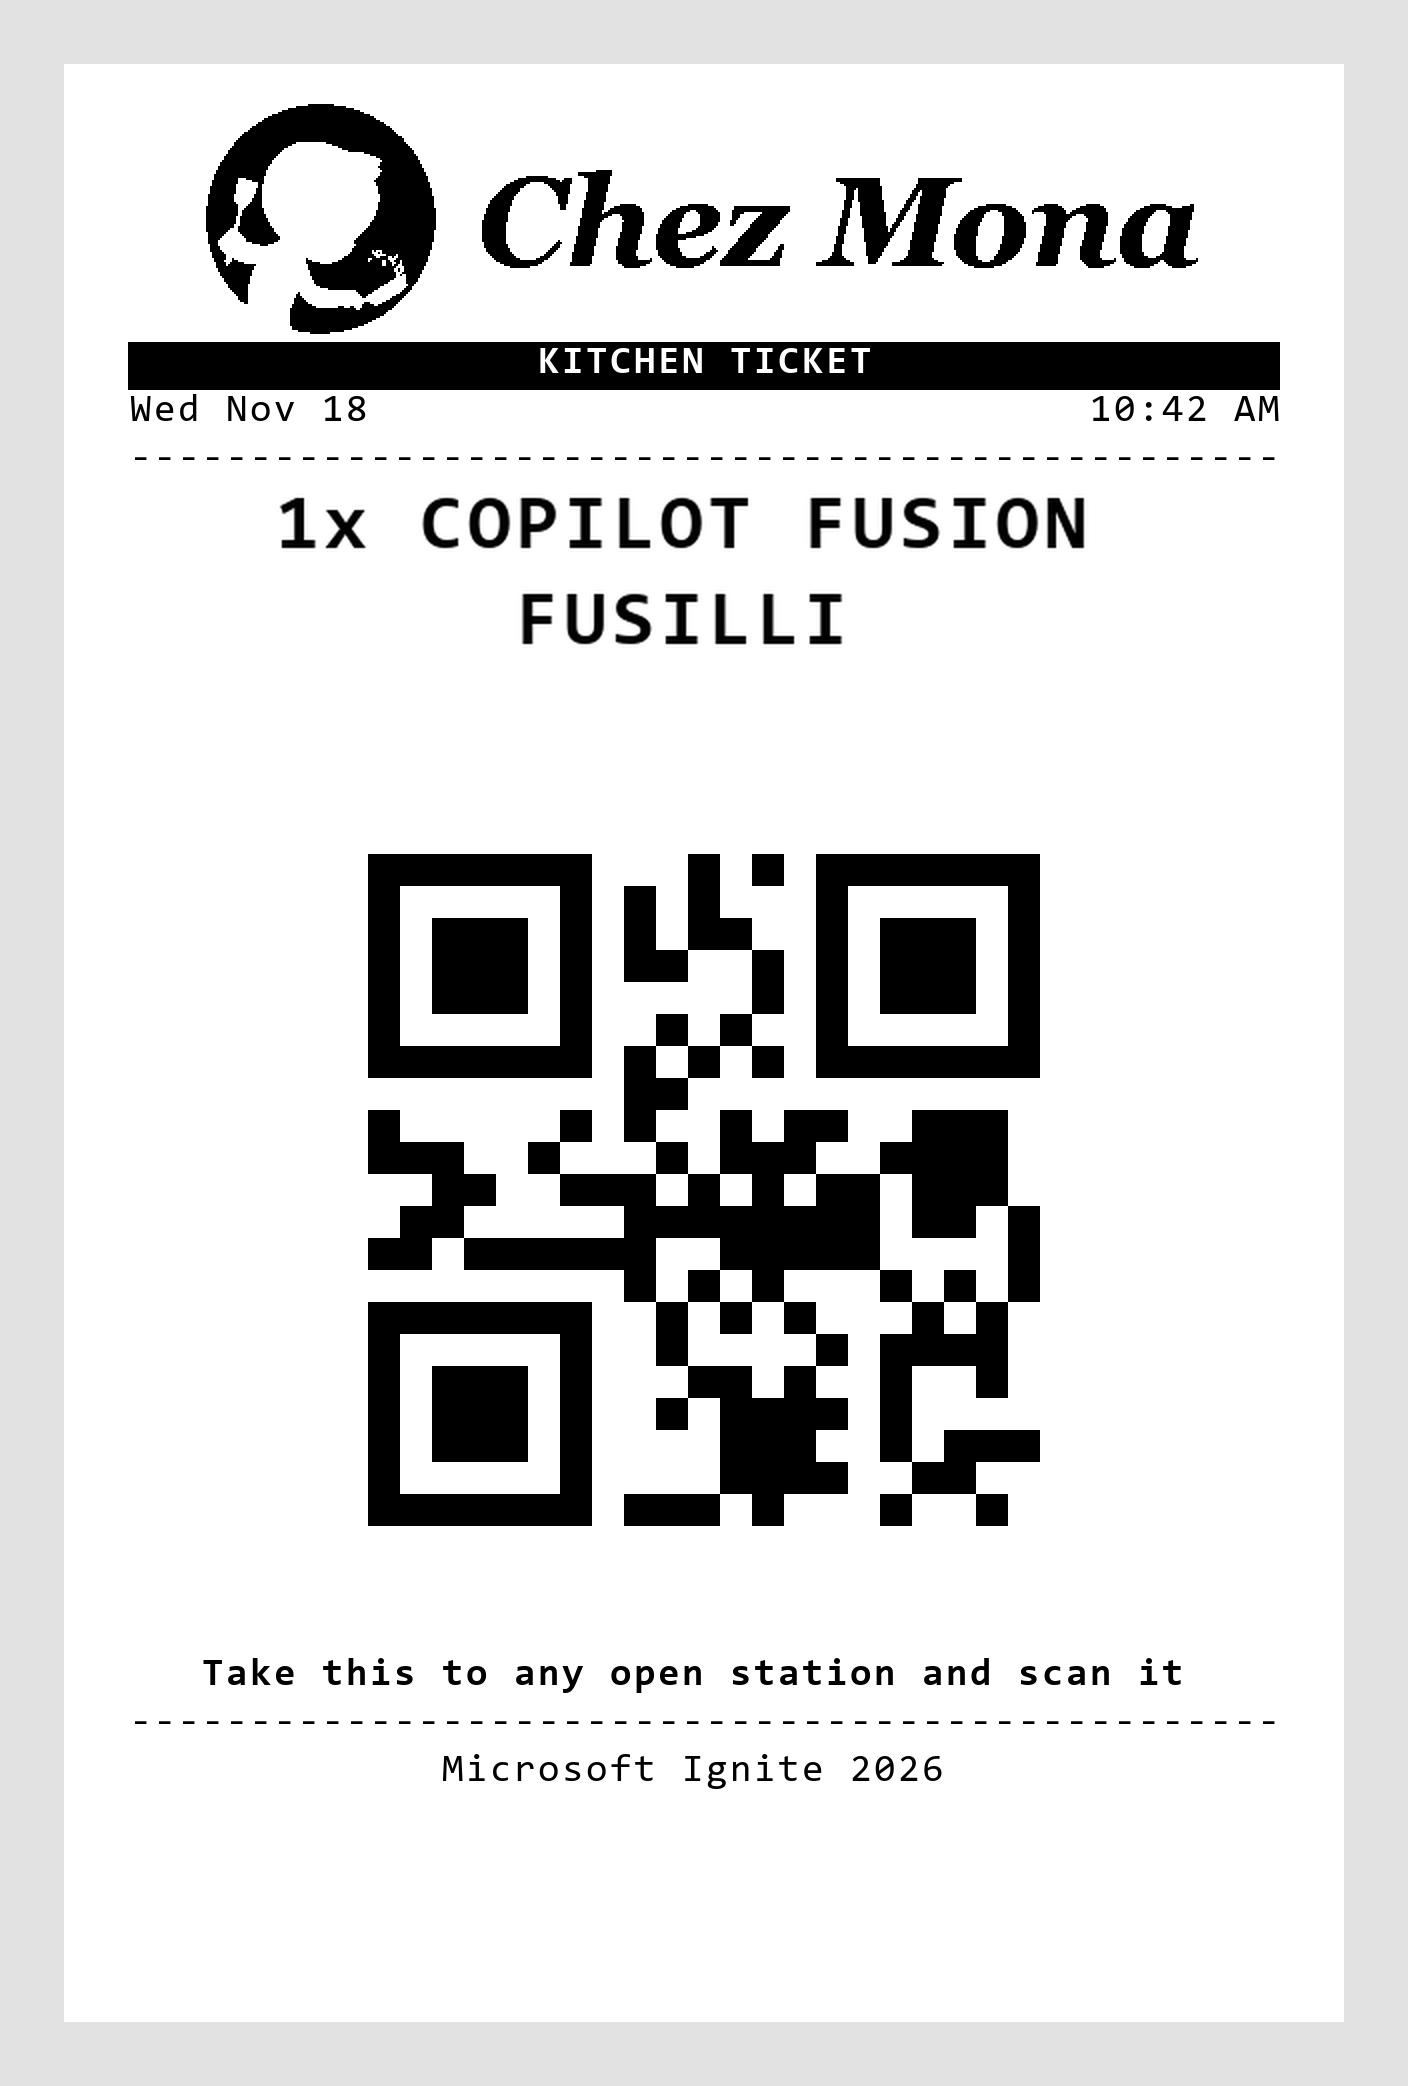
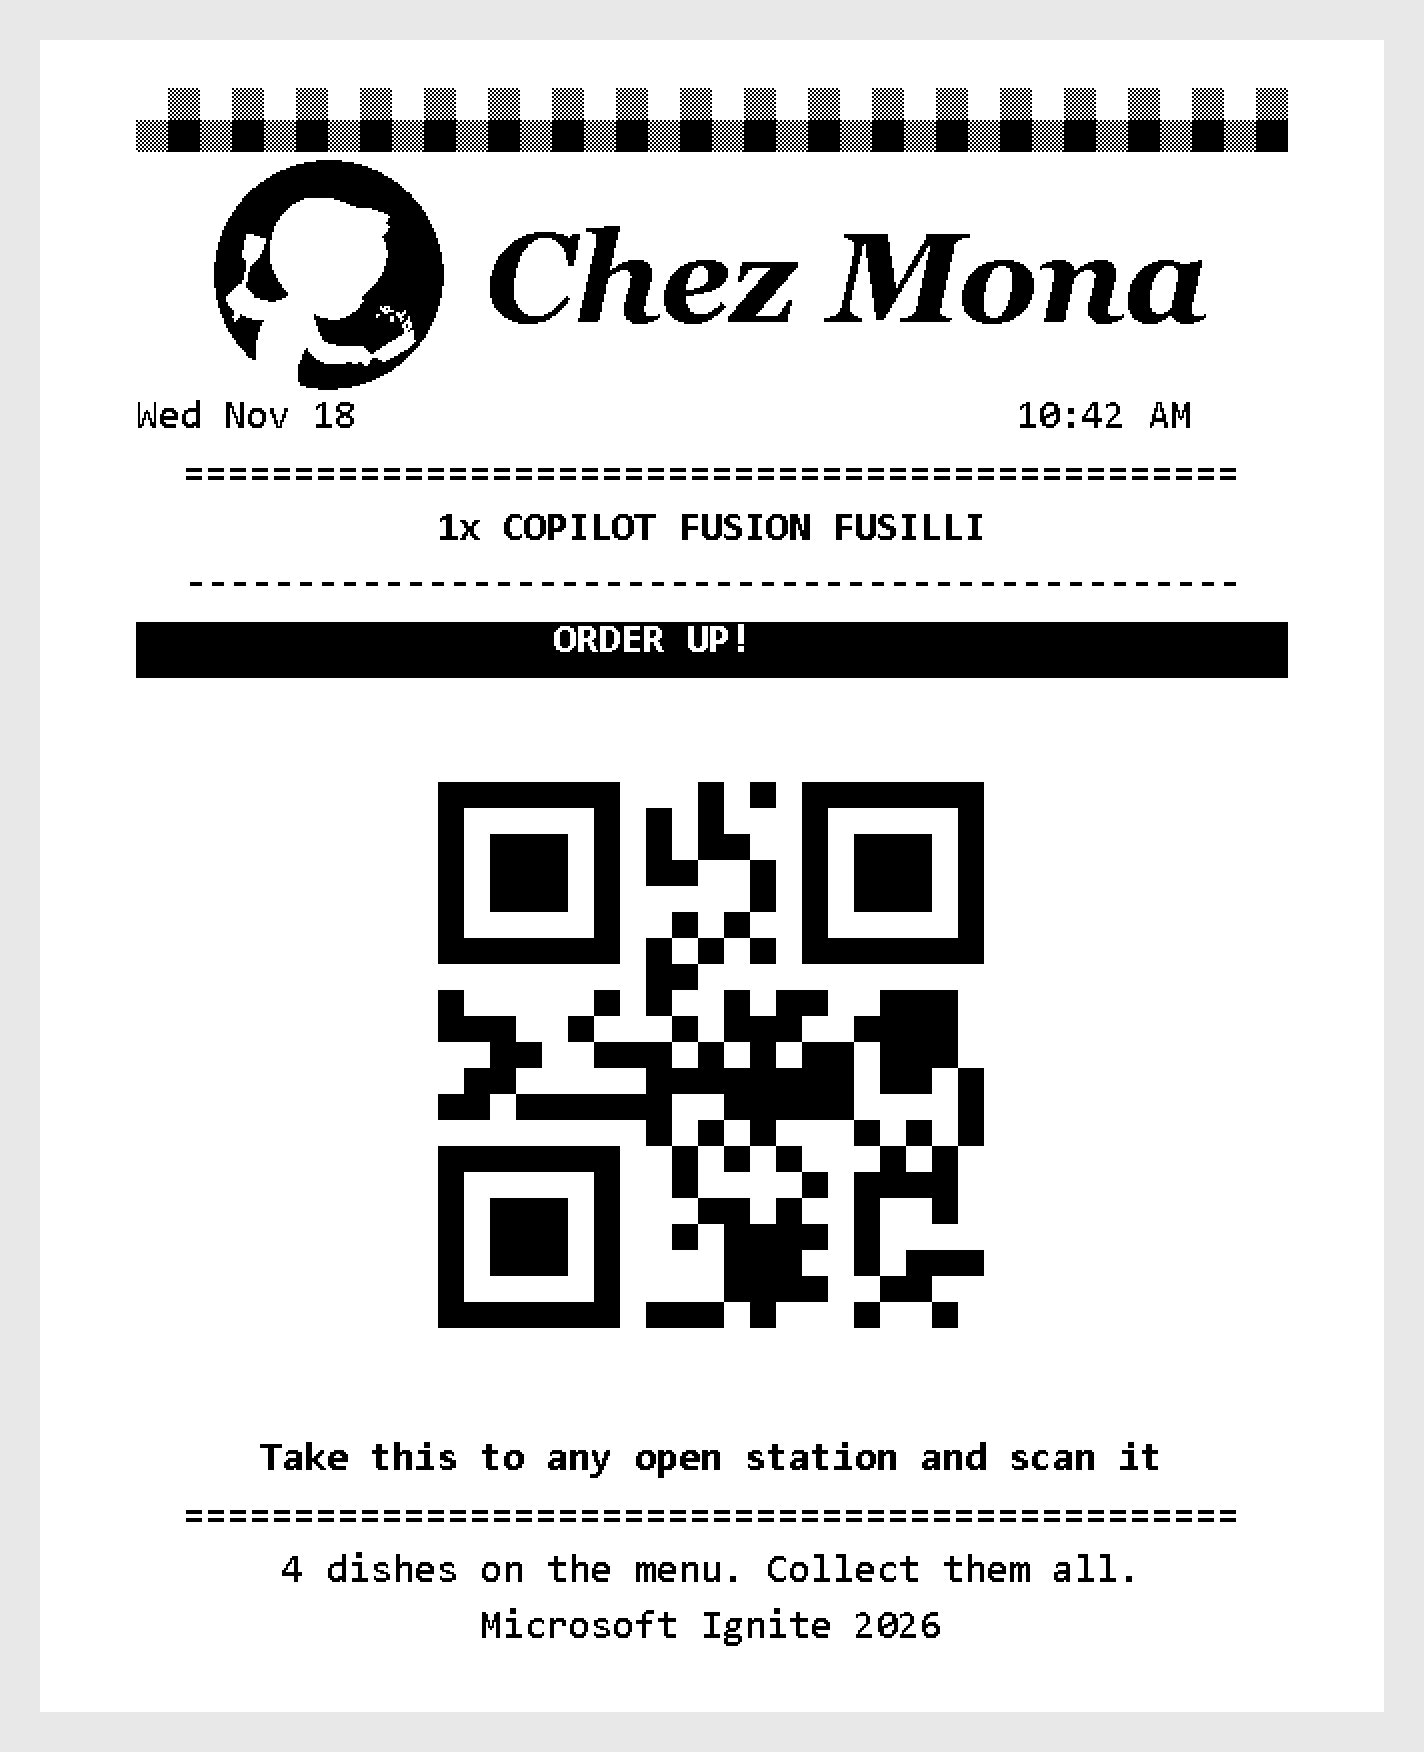
Refresh kitchen ticket design

Changed region(s): [[0.0312, 0.0, 0.9688, 0.9863], [0.0938, 0.339, 0.9062, 0.7705]]

diff --git a/launcher/chez_mona/receipt.py b/launcher/chez_mona/receipt.py
@@ -23,12 +23,12 @@ QR_CAPTION = "Scan to keep the learning going at home"
 THANKS = "Merci, chef!"
 SIGNATURE = "Chef Mona"
 SIGNATURE_FONT = "segoescb.ttf"  # Segoe Script Bold
-TICKET_BAR = "Kitchen ticket"
 TICKET_CAPTION = "Take this to any open station and scan it"
+TICKET_FOOTER = "4 dishes on the menu. Collect them all."
 FONT_A_WIDTH = 12  # dots per character, Font A at normal size
 WIDTH_DOTS = 576  # RP326 printable width: 72 mm of 80 mm paper at 203 dpi
 QR_TARGET_FRACTION = 0.45
-TICKET_QR_FRACTION = 0.6
+TICKET_QR_FRACTION = 0.5
 FONT_DIR = Path(os.environ.get("WINDIR", r"C:\Windows")) / "Fonts"
 WORDMARK_FONT = "georgiaz.ttf"  # Georgia Bold Italic
 MONA_IMAGE = Path(__file__).with_name("mona-chef.png")  # static/mona-chef.svg, rendered at 512 px
@@ -91,15 +91,17 @@ def plain(text: str) -> str:
 def ticket_layout(dish: dict, at: datetime) -> list[Item]:
     """Fridge ticket. Its QR holds only the dish ID, which the stations scan."""
     return [
+        Picture("gingham", gingham),
         Picture("wordmark", wordmark),
-        Line(TICKET_BAR.upper(), bold=True, invert=True),
         Row(f"{at:%a %b} {at.day}", clock(at)),
+        Rule("="),
+        Line(f"1x {dish['dish'].upper()}", bold=True),
         Rule(),
-        Line(f"1x {dish['dish'].upper()}", width=2, height=2, bold=True),
-        None,
+        Line("ORDER UP!", bold=True, invert=True),
         Qr(dish["id"], TICKET_QR_FRACTION),
         Line(TICKET_CAPTION, bold=True),
-        Rule(),
+        Rule("="),
+        Line(TICKET_FOOTER),
         Line(EVENT),
     ]
 

diff --git a/launcher/tests/test_receipt.py b/launcher/tests/test_receipt.py
@@ -119,13 +119,22 @@ class ReceiptTest(unittest.TestCase):
     def test_ticket_carries_dish_id_qr_and_no_number(self):
         at = datetime(2026, 11, 18, 9, 5)
         items = receipt.ticket_layout(DISHES["fried-chicken"], at)
+        texts = [i.text for i in items if isinstance(i, receipt.Line)]
         self.assertFalse(any(i.text.startswith("#") for i in items if isinstance(i, receipt.Line)))
         self.assertIn(("Wed Nov 18", "9:05 AM"), [(i.left, i.right) for i in items if isinstance(i, receipt.Row)])
         self.assertEqual([i.data for i in items if isinstance(i, receipt.Qr)], ["fried-chicken"])
+        self.assertEqual([i.fraction for i in items if isinstance(i, receipt.Qr)], [0.5])
+        self.assertIn("ORDER UP!", texts)
+        self.assertIn(receipt.TICKET_FOOTER, texts)
+        self.assertFalse(any(text.startswith(("LAB:", "STATION:", "SERVER:")) for text in texts))
+        order = next(i for i in items if isinstance(i, receipt.Line) and i.text.startswith("1x "))
+        self.assertEqual(len(receipt._text_lines(order, receipt.WIDTH_DOTS // receipt.FONT_A_WIDTH)), 1)
         data = receipt.ticket_escpos(DISHES["fried-chicken"], at, 576)
         self.assertTrue(data.endswith(b"\x1bd\x04\x1dV\x42\x00"))
         self.assertIn(b"1x MICROSOFT COPILOT", data)
         self.assertNotIn(b"Explore how you can give an agent its own", data)
+        self.assertIn(b"ORDER UP!", data)
+        self.assertIn(receipt.TICKET_FOOTER.encode("ascii"), data)
         self.assertIn(b"Take this to any open station and scan it", data)
 
 
